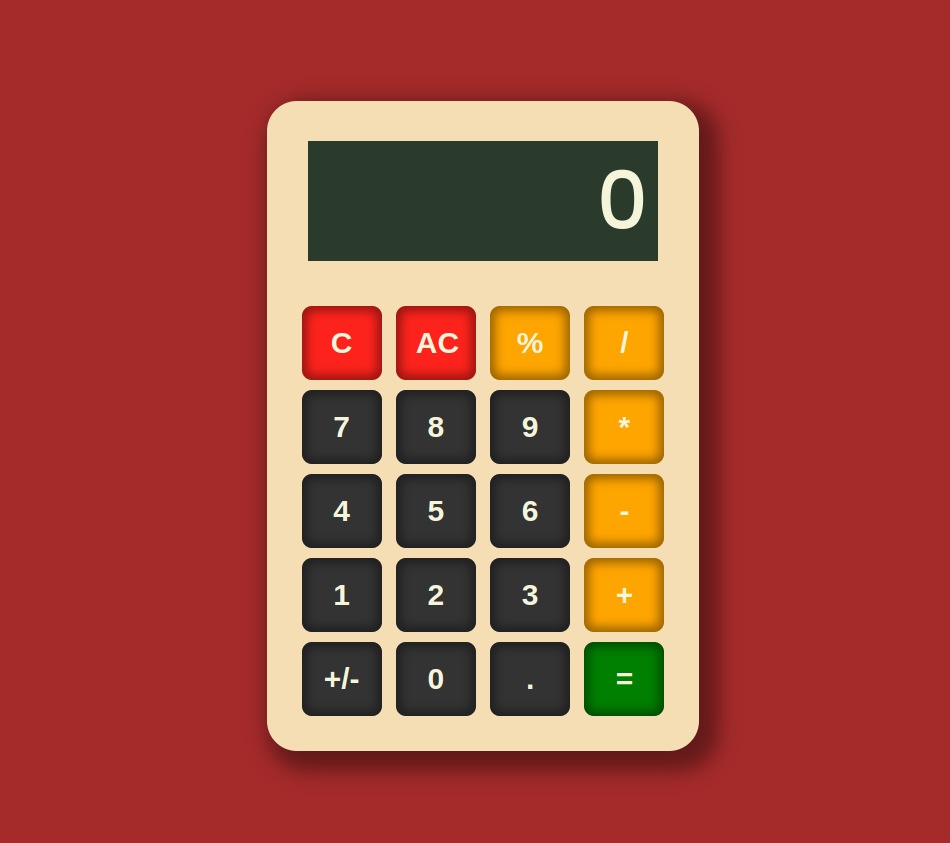
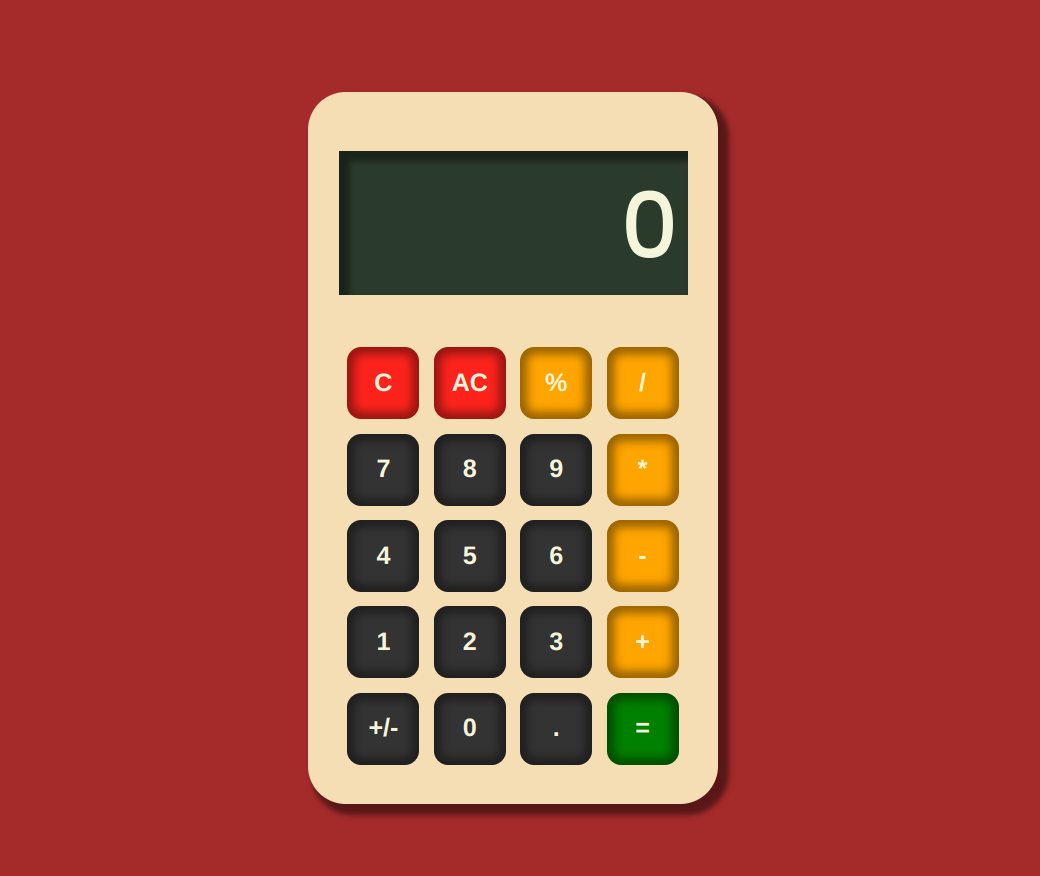
make responsive
update the css units to relative and add media queries

Changed region(s): [[0.2747, 0.0925, 0.7632, 0.9561]]

diff --git a/style.css b/style.css
@@ -1,7 +1,8 @@
 /* poppins font */
 @import url('https://fonts.googleapis.com/css2?family=Gelasio:ital,wght@0,400..700;1,400..700&family=Poppins:ital,wght@0,100;0,200;0,300;0,400;0,500;0,600;0,700;0,800;0,900;1,100;1,200;1,300;1,400;1,500;1,600;1,700;1,800;1,900&display=swap');
 
-body{
+body, html{
+    font-size: 18px;
     height: 100vh;
     display: flex;
     overflow: hidden;
@@ -10,6 +11,31 @@ body{
     caret-color: transparent;
     font-family: poppins, Arial, Helvetica, sans-serif;
     background-color: brown;
+    -webkit-tap-highlight-color: transparent;
+}
+
+@media screen and (max-width:600px) {
+    body, html{
+        font-size: 15px;
+    }
+}
+
+@media screen and (max-width:450px) {
+    body, html{
+        font-size: 12px;
+    }
+}
+
+@media screen and (max-width:350px) {
+    body, html{
+        font-size: 3vw;
+    }
+}
+
+@media screen and (max-width:300px) {
+    body, html{
+        font-size: 3vw;
+    }
 }
 
 /* calculator */
@@ -18,47 +44,62 @@ body{
     justify-content: center;
     align-items: center;
     flex-direction: column;
-    border-radius: 30px;
-    padding: 30px;
+    border-radius: 2.1rem;
+    margin: 1rem;
+    padding: 1.8rem;
     background-color: wheat;
-    height: 100%;
-    max-width: 87%;
     overflow-x: hidden;
-    box-shadow: 10px 10px 20px 10px rgba(0, 0, 0, 0.4);
+    box-shadow: 0.4rem 0.4rem 0.3rem 0.2rem rgba(0, 0, 0, 0.466);
 }   
 
 /* calculator screen */
 .calculator .screen{
-    padding-right: 10px;
+    display: flex;
+    padding-right: 0.5rem;
     display: flex;
     justify-content: flex-end;
     align-items: flex-end;
-    font-size: 80px;
+    font-size: 5rem;
     font-weight: 500;
     background-color: rgb(43, 59, 43);
-    height: 120px;  
-    margin: 10px;
+    height: 8rem;  
+    margin: 1.5rem;
     color: beige;
     max-width: 340px;
     overflow: hidden;
     width: 100%;
+    box-shadow: inset 0.4rem 0.4rem 0.3rem 0.2rem rgba(0, 0, 0, 0.4);
 }
 
 /* keypad */
 .calculator .keypad{
-    padding-top: 30px;
+    display: flex;
+    align-items: flex-start;
+    justify-content: flex-end;
+    padding-top: 1rem;
+    flex-direction: column;
 }
 
-.calculator .keypad button{
+.calculator .keypad div{
+    display: flex;
+    justify-content: center;
+    align-items: center;
+}
+
+.calculator .keypad div button{
+    display: flex;
+    align-items: center;
+    justify-content: center;
     background-color: #333;
     border: none;
-    box-shadow: inset 0 0 10px 5px rgba(0, 0, 0, 0.4);
-    padding: 20px;
-    border-radius: 10px;
-    margin: 5px;
+    box-shadow: inset 0 0 0.5rem 0.4rem rgba(0, 0, 0, 0.4);
+    padding: 1em;
+    width: 4rem;
+    height: 4rem;
+    border-radius: 0.8rem;
+    margin: 0.4rem;
     font-weight: 700;
-    font-size: 30px;
-    width: 5rem;
+    font-size: 1.4rem;
     color: beige;
 }
 
